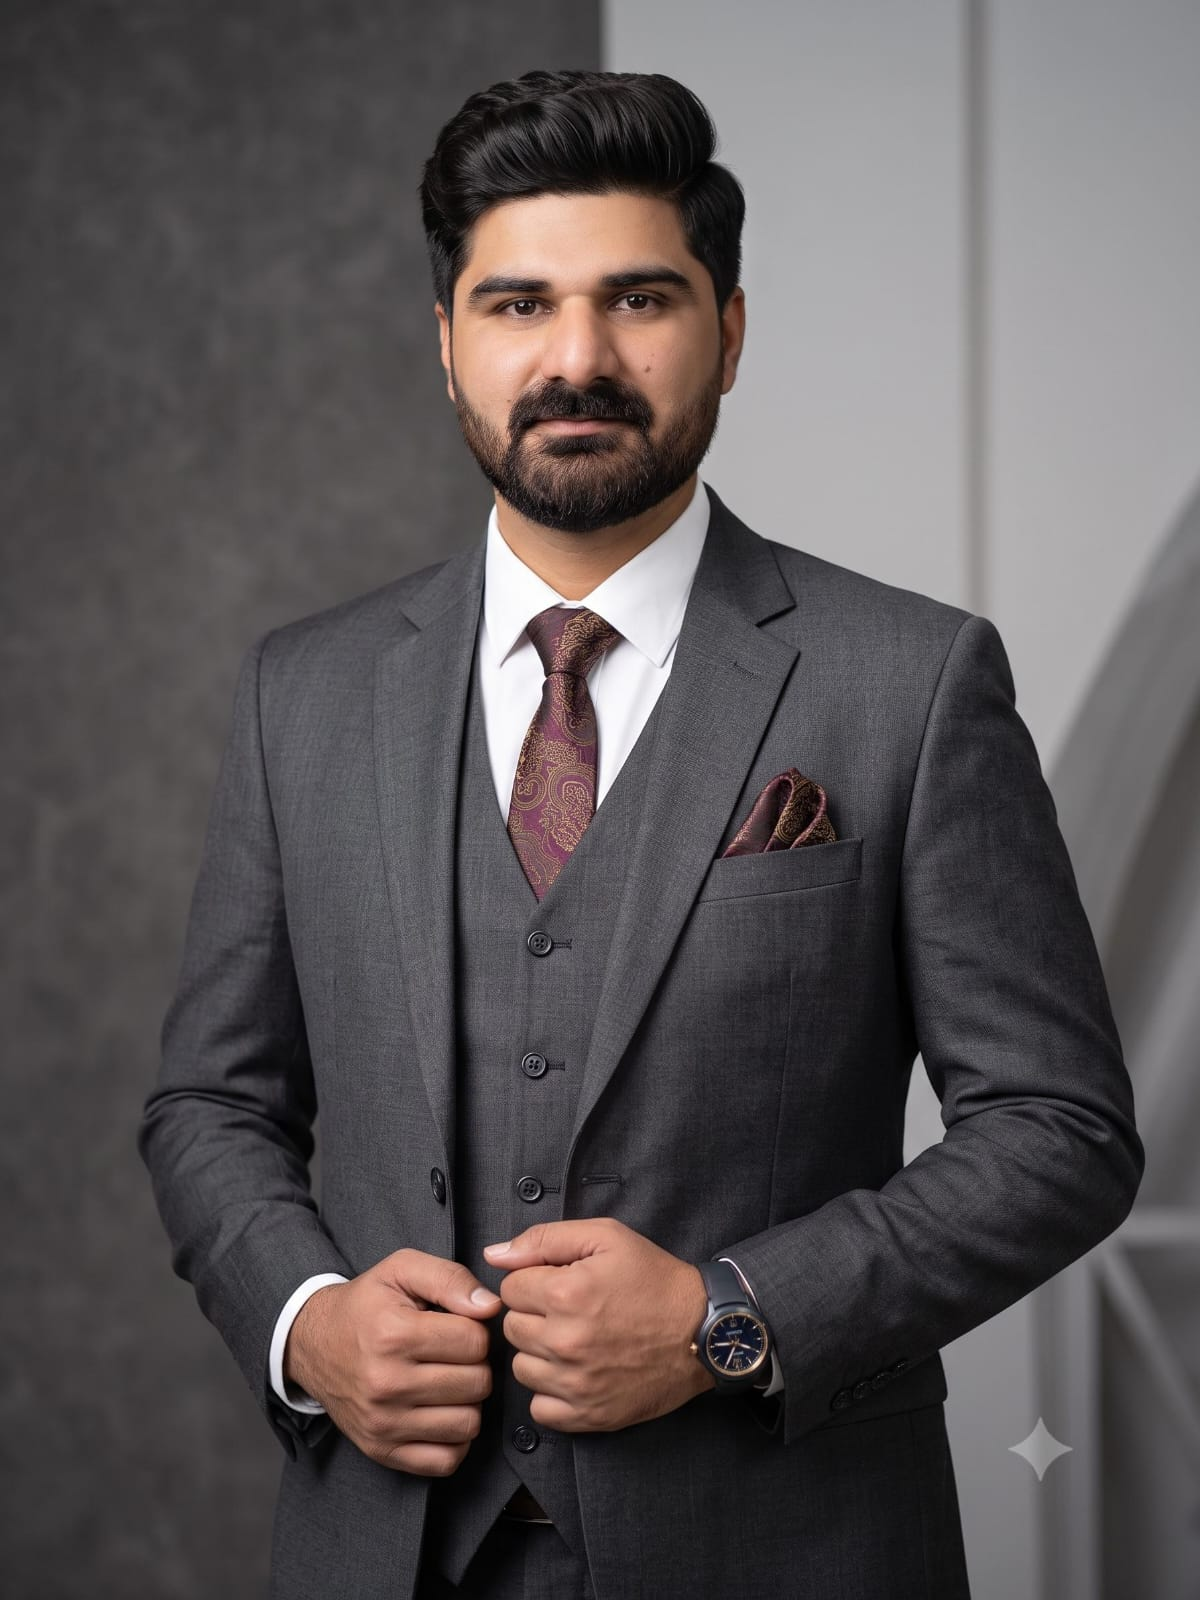
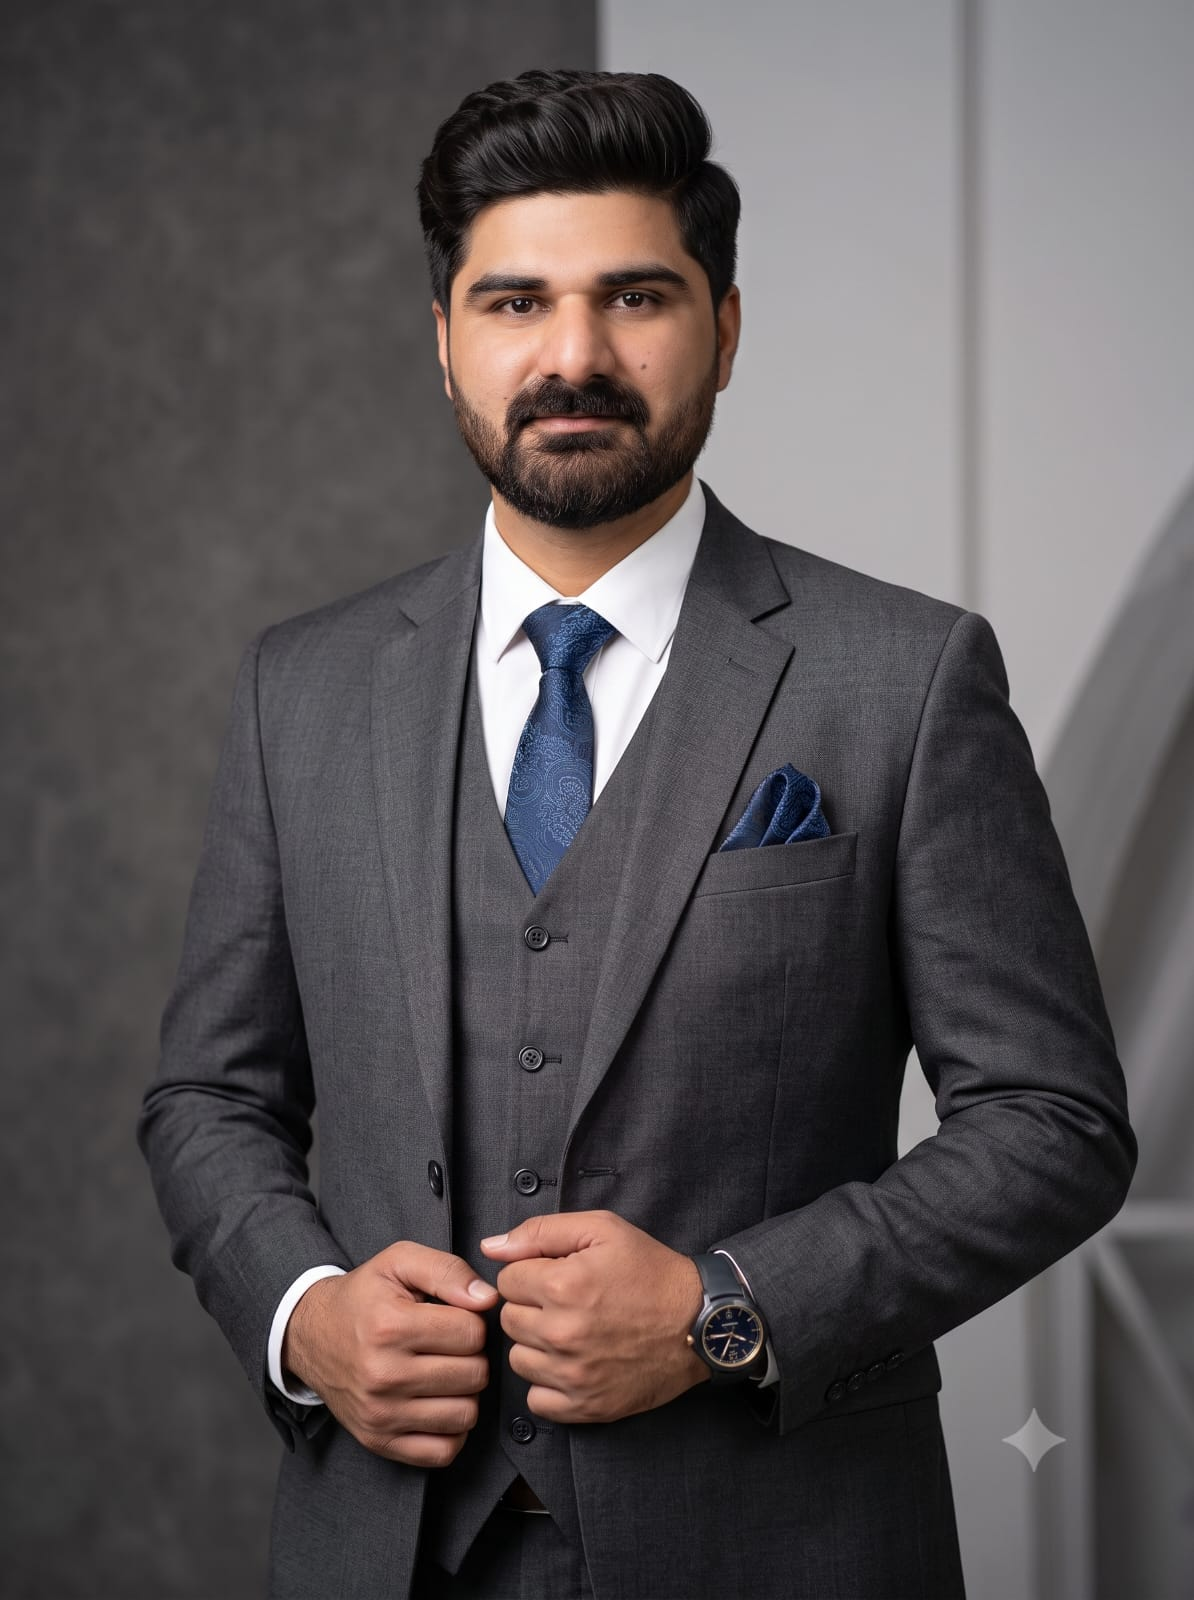
change experience and profile photo

diff --git a/src/app/layout.tsx b/src/app/layout.tsx
@@ -24,20 +24,20 @@ const sora = Sora({
 });
 
 export const metadata: Metadata = {
-  title: "Hassan Raza | Deputy Manager Marketing",
+  title: "Hassan Alvi | Deputy Manager Marketing",
   description:
-    "Professional portfolio of Hassan Raza — Deputy Manager Marketing at Masood Textile Mills Ltd. with 7+ years of experience in apparel product development, export marketing, and European brand partnerships.",
+    "Professional portfolio of Hassan Alvi — Deputy Manager Marketing at Masood Textile Mills Ltd. with 8+ years of experience in apparel product development, export marketing, and European brand partnerships.",
   keywords: [
-    "Hassan Raza",
+    "Hassan Alvi",
     "Textile Marketing",
     "Merchandising",
     "Apparel Export",
     "Masood Textile Mills",
     "Product Development",
   ],
-  authors: [{ name: "Hassan Raza" }],
+  authors: [{ name: "Hassan Alvi" }],
   openGraph: {
-    title: "Hassan Raza | Deputy Manager Marketing",
+    title: "Hassan Alvi | Deputy Manager Marketing",
     description:
       "Marketing & merchandising professional specializing in European high-fashion brand development and textile exports.",
     type: "website",

diff --git a/src/data/portfolio.ts b/src/data/portfolio.ts
@@ -1,5 +1,5 @@
 export const personalInfo = {
-  name: "Hassan Raza",
+  name: "Hassan Alvi",
   role: "Deputy Manager Marketing",
   tagline: "Driving apparel exports through strategic merchandising and brand partnerships",
   location: "Faisalabad, Pakistan",
@@ -12,7 +12,8 @@ export const personalInfo = {
     "Chack #68 R.B Jinnah Colony Adda Johal, 33-KM Sheikhupura Road, Faisalabad 38000, Pakistan",
   company: "Masood Textile Mills Ltd.",
   companyUrl: "https://masoodtextile.com",
-  resumeUrl: "/Hassan-Raza-Resume.docx",
+  resumeUrl: "/Hassan-Alvi-Resume.pdf",
+  resumeFileName: "Hassan-Alvi-Resume.pdf",
 };
 
 export const brandPartners = [
@@ -24,7 +25,7 @@ export const brandPartners = [
 ];
 
 export const heroStats = [
-  { value: "7+", label: "Years Experience" },
+  { value: "8+", label: "Years Experience" },
   { value: "15%", label: "Cost Reduction" },
   { value: "100%", label: "KPI Award" },
   { value: "5+", label: "European Brands" },

diff --git a/src/components/Hero.tsx b/src/components/Hero.tsx
@@ -34,7 +34,11 @@ export default function Hero() {
             </p>
 
             <div className="mt-6 flex flex-col gap-2.5 sm:mt-8 sm:flex-row sm:flex-wrap sm:justify-center lg:justify-start">
-              <a href={personalInfo.resumeUrl} download className="btn-primary">
+              <a
+                href={personalInfo.resumeUrl}
+                download={personalInfo.resumeFileName}
+                className="btn-primary"
+              >
                 <Download size={18} />
                 Download Resume
               </a>